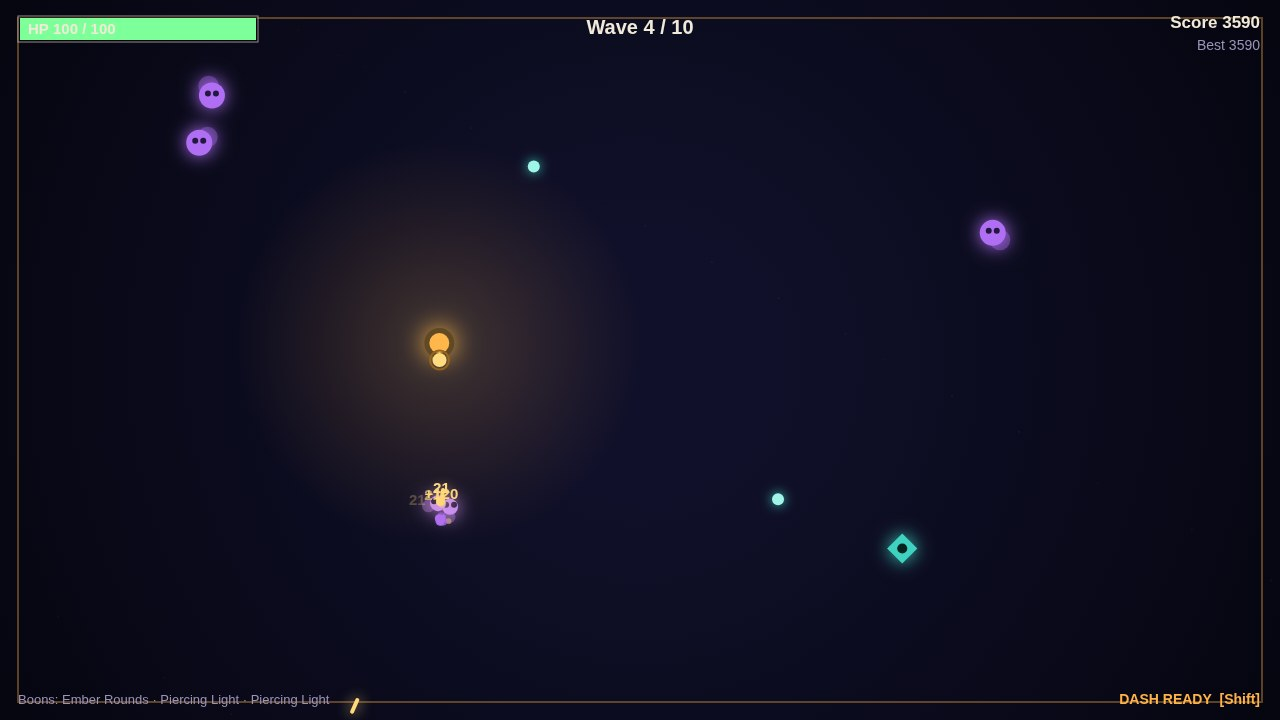
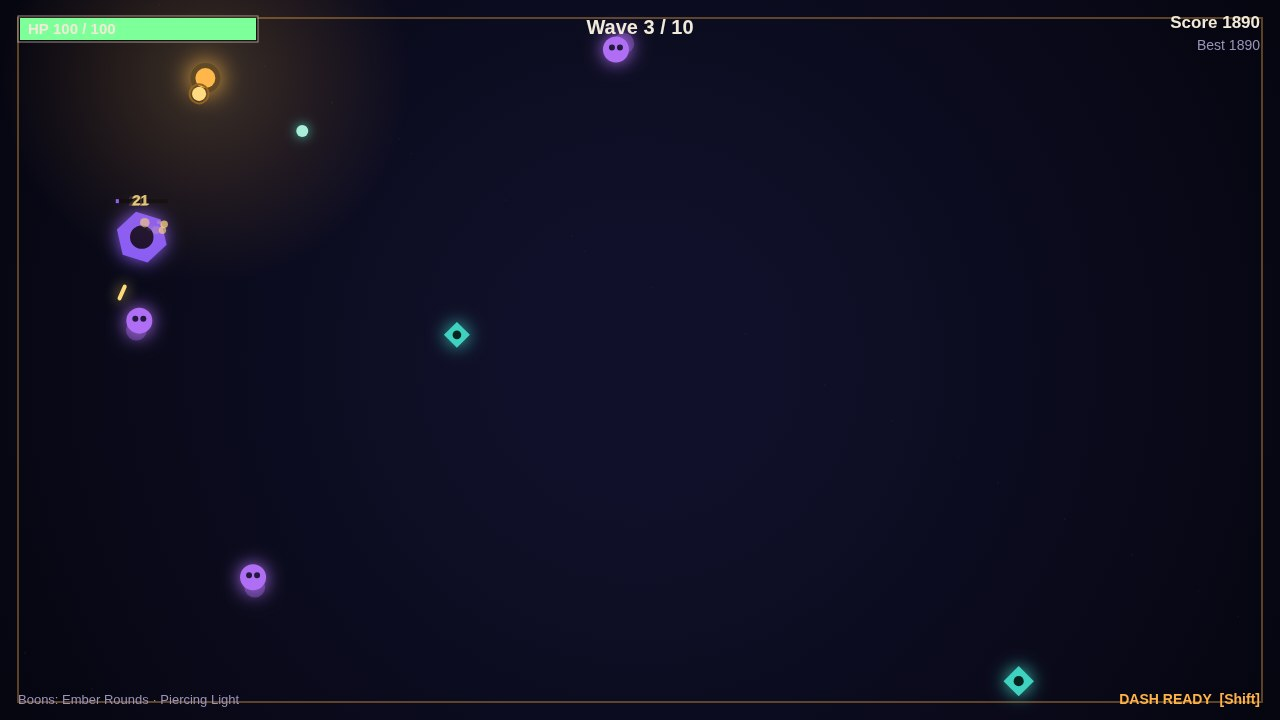
Tune difficulty: waves 6-10 press harder so a good run ends on a sliver of HP

diff --git a/game/src/config.js b/game/src/config.js
@@ -28,42 +28,46 @@ export const PLAYER = {
   dashTime: 0.16,
   dashCooldown: 2.2,
   // Brief invulnerability after taking a hit, so one touch is not two.
-  hurtGrace: 0.7,
+  // Short enough that a crowd can still wear the lantern down.
+  hurtGrace: 0.6,
   // The lantern's warm glow radius; boons can widen it.
   lightRadius: 210,
 };
 
 export const ENEMY = {
-  wisp:   { radius: 13, hp: 22,  speed: 96,  damage: 9,  score: 50,  touch: 0.55 },
+  wisp:   { radius: 13, hp: 22,  speed: 96,  damage: 10, score: 50,  touch: 0.55 },
   spitter:{ radius: 15, hp: 34,  speed: 62,  damage: 7,  score: 90,  touch: 0.6 },
-  brute:  { radius: 26, hp: 150, speed: 42,  damage: 18, score: 200, touch: 0.9 },
-  mote:   { radius: 8,  hp: 10,  speed: 150, damage: 5,  score: 25,  touch: 0.4 },
+  brute:  { radius: 26, hp: 150, speed: 42,  damage: 20, score: 200, touch: 0.8 },
+  mote:   { radius: 8,  hp: 10,  speed: 160, damage: 5,  score: 25,  touch: 0.4 },
   // Splitter: a fat wisp that bursts into two motes when it dies.
   splitter:{ radius: 20, hp: 55, speed: 72,  damage: 11, score: 120, touch: 0.65 },
 };
 
 // Waves: how many of each kind, and how fast they trickle in.
+// Early waves stay learnable; from wave 6 the horde grows denser, tougher
+// and faster than the player's boons can keep up with, so the last waves
+// are a real fight instead of a victory lap.
 export const WAVES = [
   { wisp: 6,  spitter: 0, brute: 0, splitter: 0, spawnGap: 1.15, hpMul: 1.00, speedMul: 1.00 },
-  { wisp: 9,  spitter: 2, brute: 0, splitter: 0, spawnGap: 1.05, hpMul: 1.05, speedMul: 1.03 },
-  { wisp: 11, spitter: 3, brute: 1, splitter: 1, spawnGap: 0.98, hpMul: 1.10, speedMul: 1.06 },
-  { wisp: 13, spitter: 4, brute: 1, splitter: 2, spawnGap: 0.92, hpMul: 1.16, speedMul: 1.09 },
-  { wisp: 15, spitter: 5, brute: 2, splitter: 2, spawnGap: 0.86, hpMul: 1.22, speedMul: 1.12 },
-  { wisp: 16, spitter: 7, brute: 2, splitter: 3, spawnGap: 0.80, hpMul: 1.30, speedMul: 1.15 },
-  { wisp: 18, spitter: 8, brute: 3, splitter: 3, spawnGap: 0.74, hpMul: 1.38, speedMul: 1.18 },
-  { wisp: 20, spitter: 9, brute: 4, splitter: 4, spawnGap: 0.68, hpMul: 1.47, speedMul: 1.21 },
-  { wisp: 22, spitter: 11, brute: 5, splitter: 4, spawnGap: 0.62, hpMul: 1.57, speedMul: 1.24 },
-  { wisp: 26, spitter: 13, brute: 6, splitter: 5, spawnGap: 0.56, hpMul: 1.68, speedMul: 1.28 },
+  { wisp: 9,  spitter: 2, brute: 0, splitter: 0, spawnGap: 1.05, hpMul: 1.08, speedMul: 1.04 },
+  { wisp: 11, spitter: 3, brute: 1, splitter: 1, spawnGap: 0.98, hpMul: 1.18, speedMul: 1.08 },
+  { wisp: 13, spitter: 4, brute: 1, splitter: 2, spawnGap: 0.92, hpMul: 1.30, speedMul: 1.13 },
+  { wisp: 15, spitter: 5, brute: 2, splitter: 2, spawnGap: 0.86, hpMul: 1.45, speedMul: 1.18 },
+  { wisp: 18, spitter: 8, brute: 3, splitter: 4, spawnGap: 0.76, hpMul: 1.55, speedMul: 1.22 },
+  { wisp: 20, spitter: 10, brute: 4, splitter: 4, spawnGap: 0.70, hpMul: 1.62, speedMul: 1.25 },
+  { wisp: 21, spitter: 10, brute: 5, splitter: 5, spawnGap: 0.64, hpMul: 1.90, speedMul: 1.33 },
+  { wisp: 22, spitter: 12, brute: 6, splitter: 5, spawnGap: 0.58, hpMul: 2.08, speedMul: 1.39 },
+  { wisp: 25, spitter: 13, brute: 7, splitter: 6, spawnGap: 0.52, hpMul: 2.30, speedMul: 1.45 },
 ];
 
 export const SPITTER = {
   // Preferred range band: close in when too far, back off when too close.
   wantMin: 260,
   wantMax: 360,
-  shotSpeed: 250,
+  shotSpeed: 275,
   shotRadius: 6,
-  shotDamage: 8,
-  shotInterval: 2.4,
+  shotDamage: 9,
+  shotInterval: 2.3,
 };
 
 export const BOONS = [

diff --git a/README.md b/README.md
@@ -6,6 +6,10 @@
 
 Emberwarden is a top-down arena survival game: hold the last lantern against the dark tide through 10 waves, choosing boons between waves, with synthesized sound and procedural art.
 
+## How it plays
+
+Waves 1–3 teach the ropes — a few wisps, room to learn kiting and the dash. From wave 6 the horde grows denser, tougher and faster than the boons can keep up with, so the last waves are a genuine fight: a good run ends on a sliver of health, and a careless one ends in the dark. No cheap deaths — every hit is telegraphed, the dash gives a moment of safety, and standing still is what gets you killed.
+
 ## Run it
 
 ```sh
